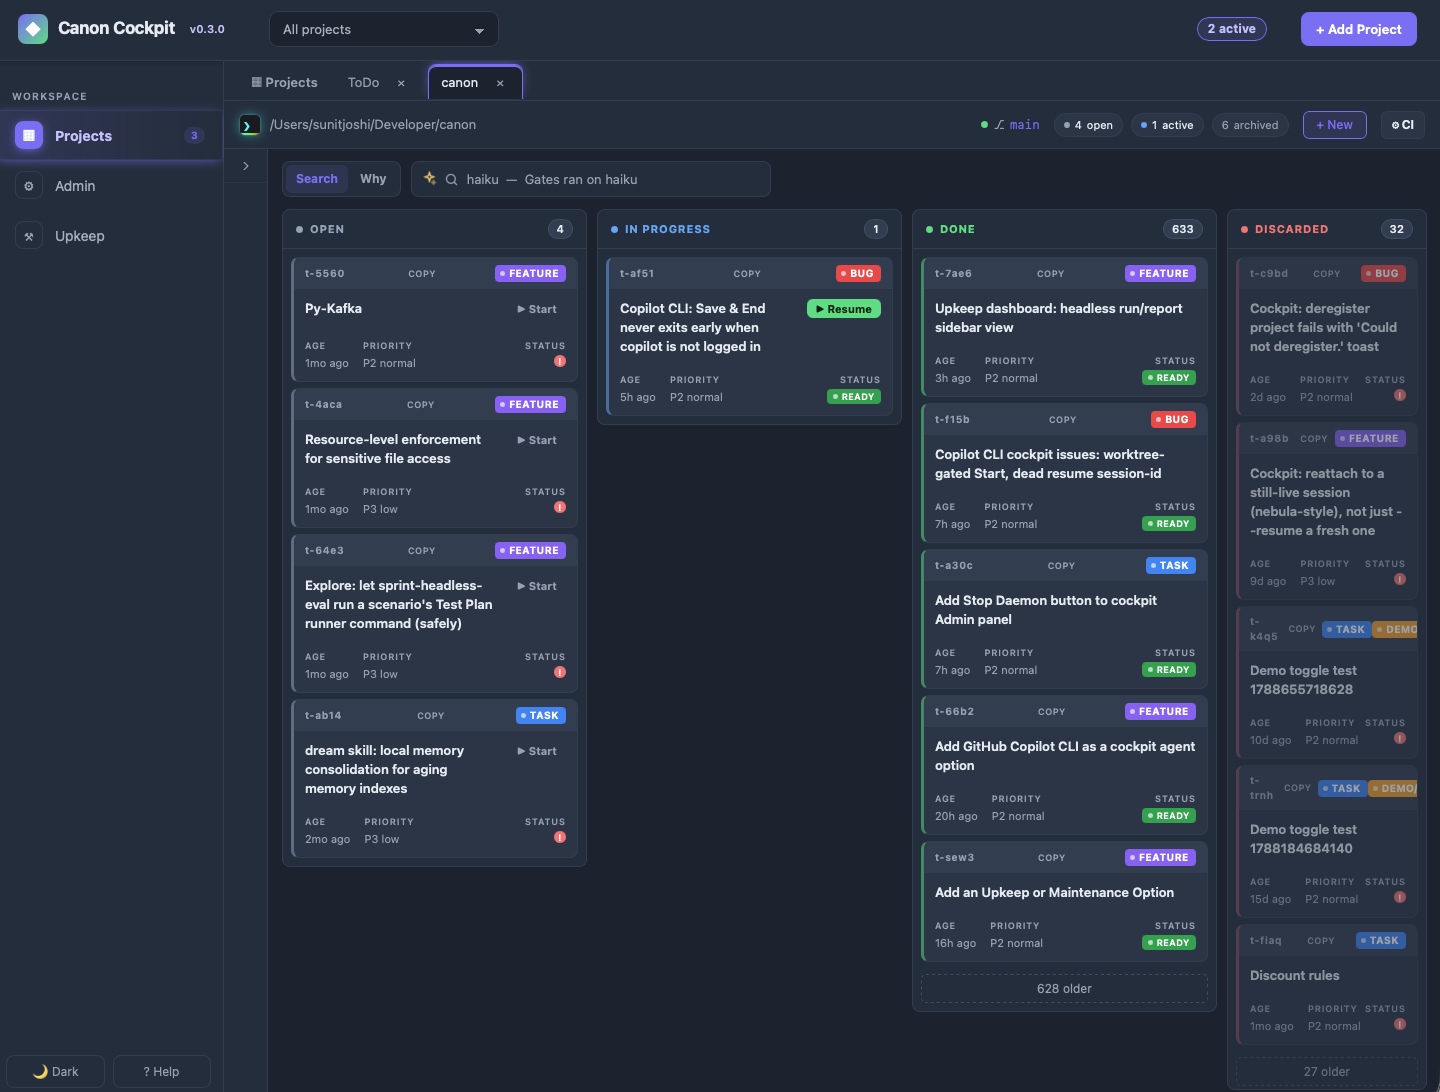
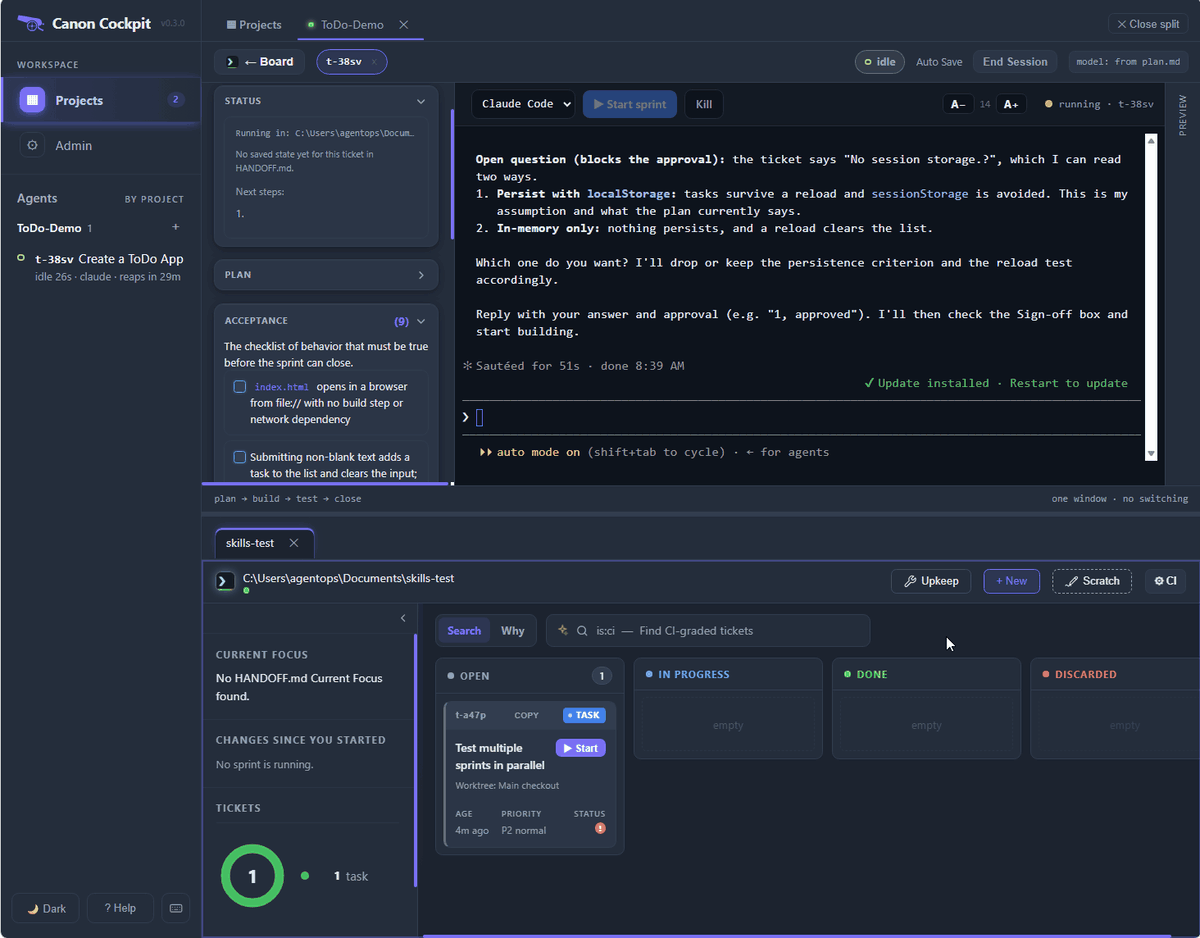
docs: show the split view in the README picture
The README's top picture now shows an agent session over a project
board (the same capture as getcanon.dev's hero), as a 120 KB palette
PNG at the same path; only line 17's alt text changes.

Closes: t-11f4

Claude-Session: https://claude.ai/code/session_0118Q3DfXxH3NMMs1YPagamh

diff --git a/README.md b/README.md
@@ -14,7 +14,7 @@ Two commands and a local board. Your agent forgets — your repo shouldn't.
 
 </div>
 
-[![The Cockpit board — searchable local kanban with status-aware cards and repo context, running inside Canon Cockpit's own shell.](meta/screenshots/cockpit-board.png)](docs/index.html)
+[![The Cockpit in split view: an agent session on top, where the agent asks an open question before the plan is approved, and a project board below with one open ticket.](meta/screenshots/cockpit-board.png)](docs/index.html)
 
 <div align="center"><em>Your agent plans in the repo, and a second agent checks its work.</em></div>
 
